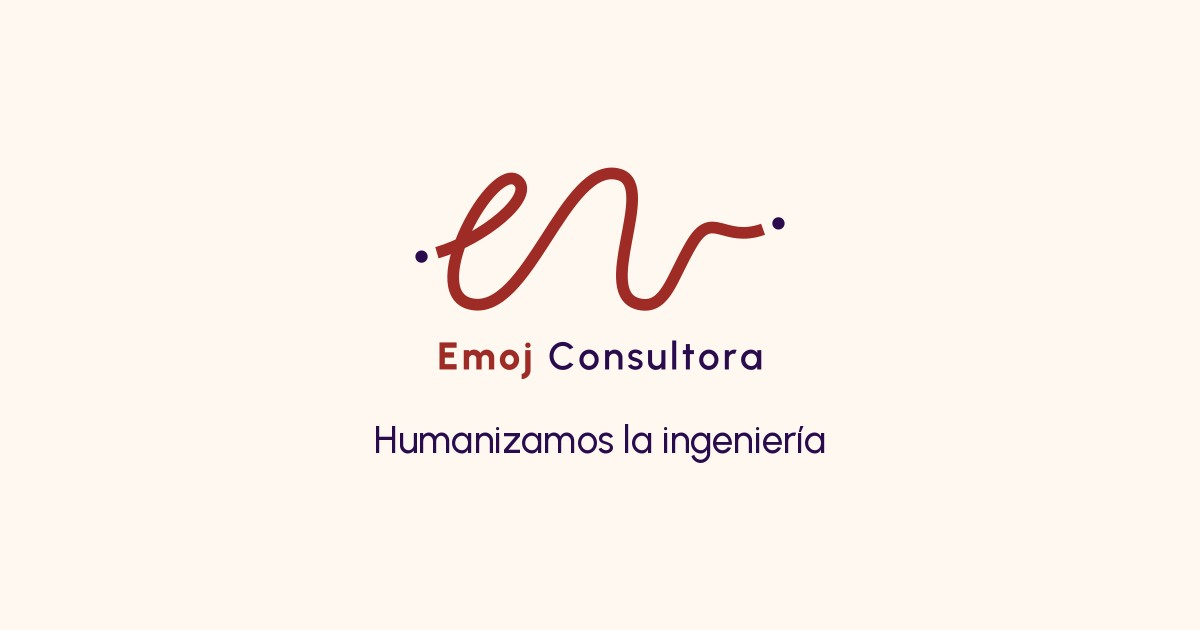
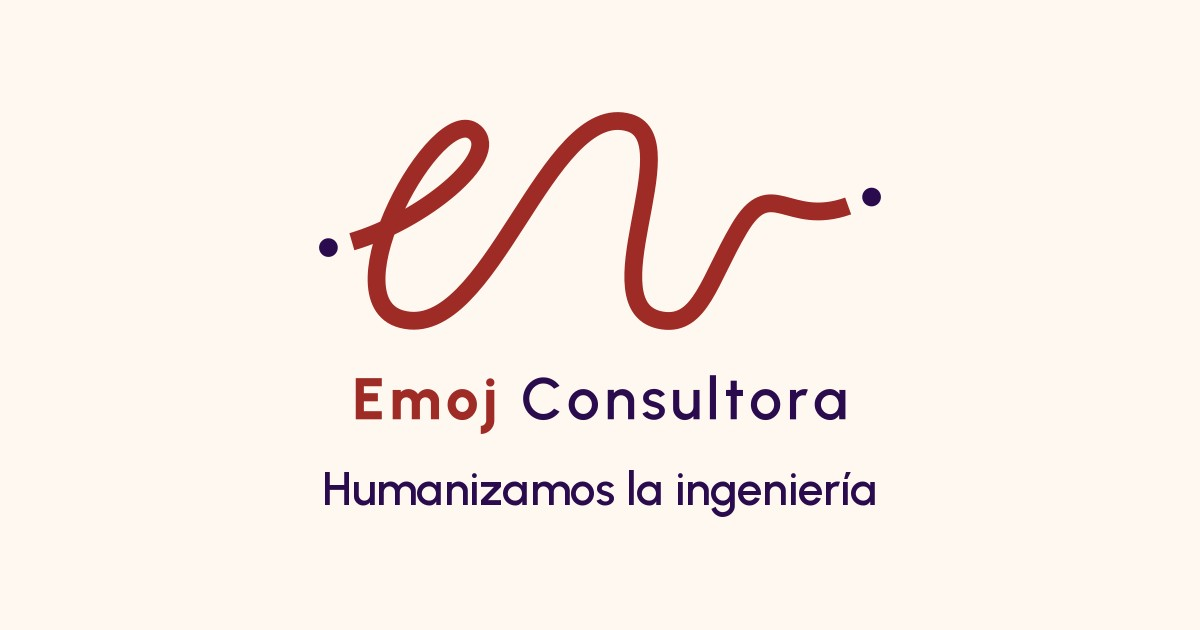
fix(seo): larger mark in the share image for small previews
WhatsApp shrinks the square preview to under 100 px, where the mark and
tagline looked blurry. The lockup now spans about 590 px of the 630 px
square (was about 390) and the tagline is 46 px, semibold, so both stay
legible in the thumbnail.

Changed region(s): [[0.2467, 0.181, 0.74, 0.7238], [0.2467, 0.754, 0.74, 0.8143]]

diff --git a/scripts/build-og-image.py b/scripts/build-og-image.py
@@ -4,7 +4,9 @@ Floral White background with the official vertical lockup in color
 (design/brand/oficial/vertical-bold.svg, never redrawn; the heavy stroke
 holds up in small previews) and the tagline set in Urbanist, all centered.
 Everything sits inside the central 630x630 square, so chat apps that crop
-the preview to a square thumbnail (WhatsApp) still show the whole mark.
+the preview to a square thumbnail (WhatsApp) still show the whole mark, and
+the mark fills most of that square so it stays sharp when the thumbnail is
+shrunk to under 100 px.
 Run it after the brand files change; the output is committed.
 
 Usage (needs Pillow, and `pnpm install` for sharp and the Urbanist font):
@@ -27,7 +29,7 @@ SAND_50 = (255, 248, 240)  # Floral White
 PLUM_950 = (42, 12, 78)  # Russian Violet
 WIDTH, HEIGHT = 1200, 630
 SAFE = 630  # the central square every crop keeps
-LOCKUP_WIDTH = 500
+LOCKUP_WIDTH = 760  # before trimming the artboard margin (~590 px of mark)
 
 # Rasterize the official SVG with sharp (a dependency of the site).
 with tempfile.TemporaryDirectory() as tmp:
@@ -50,15 +52,20 @@ with tempfile.TemporaryDirectory() as tmp:
     # Trim the transparent margin of the artboard so the mark is centered.
     lockup = lockup.crop(lockup.getbbox())
 
-font = ImageFont.truetype(str(FONTS / "urbanist-latin-500-normal.woff"), 38)
+font = ImageFont.truetype(str(FONTS / "urbanist-latin-600-normal.woff"), 46)
 tagline = "Humanizamos la ingeniería"
 draw_probe = ImageDraw.Draw(Image.new("RGB", (1, 1)))
 left, top, right, bottom = draw_probe.textbbox((0, 0), tagline, font=font)
 text_w, text_h = right - left, bottom - top
 
-gap = 44
+gap = 36
 block_h = lockup.height + gap + text_h
-assert lockup.width <= SAFE - 80 and block_h <= SAFE - 120, "keep it in the square"
+assert max(lockup.width, text_w) <= SAFE - 30 and block_h <= SAFE - 100, (
+    "keep it in the square",
+    lockup.size,
+    text_w,
+    block_h,
+)
 
 canvas = Image.new("RGB", (WIDTH, HEIGHT), SAND_50)
 y = (HEIGHT - block_h) // 2
